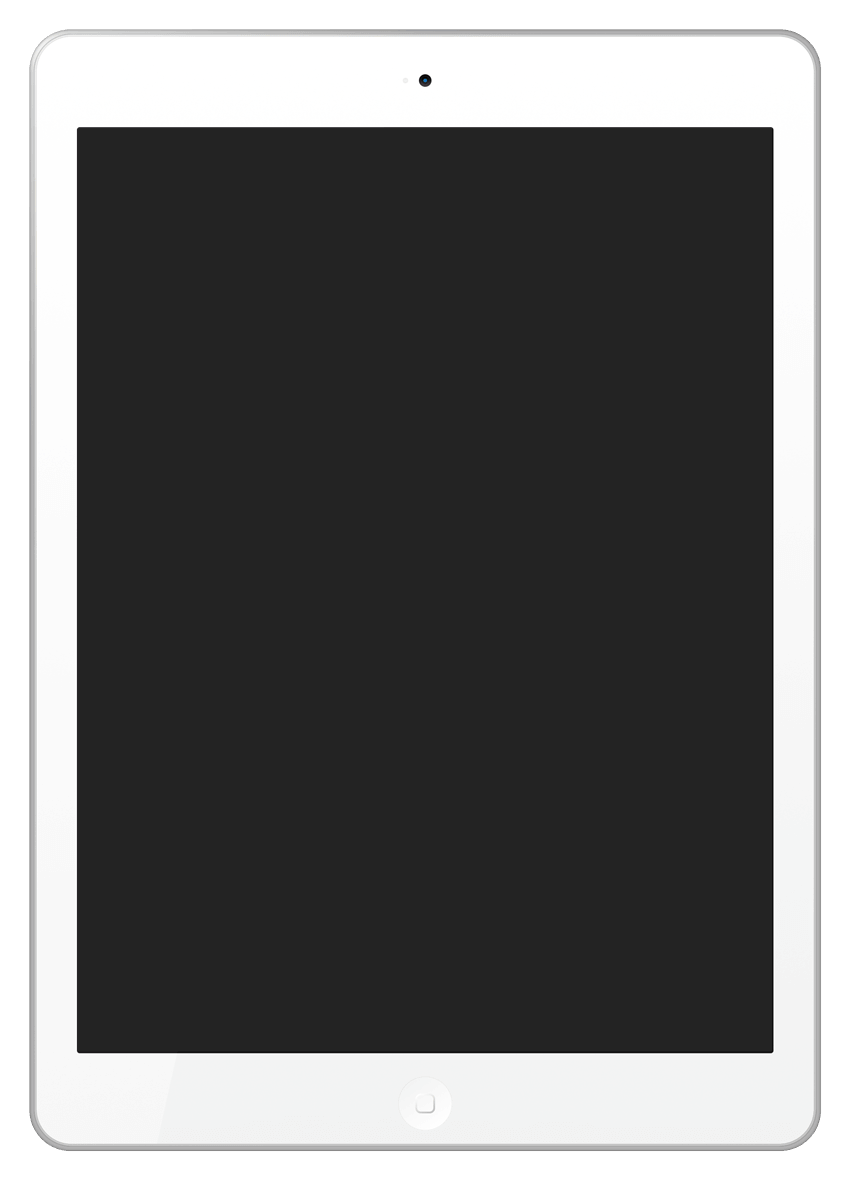
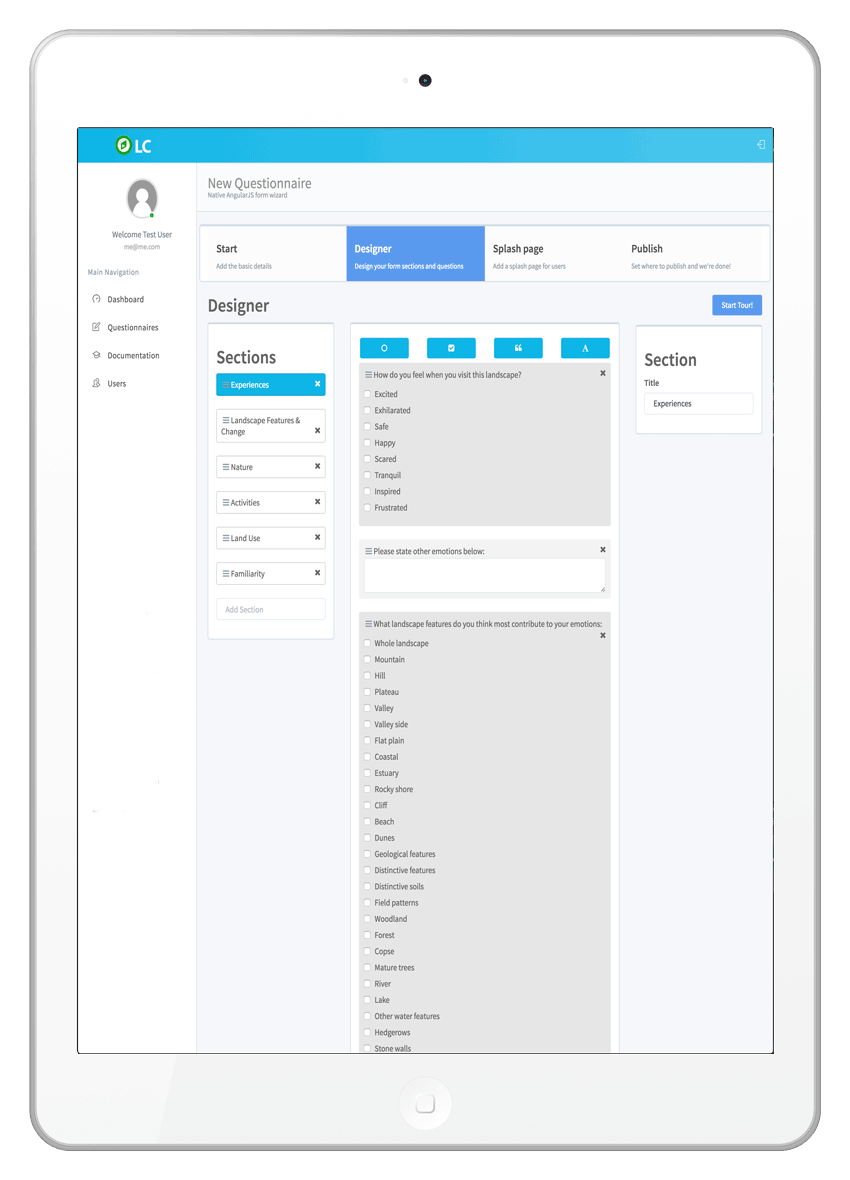
Update public advert page

diff --git a/public/index.html b/public/index.html
@@ -108,17 +108,12 @@
                      <h1 class="intro">Engage with your Landscape</h1>
                      <!--h5 Available on //a.buy-link(href="https://wrapbootstrap.com/theme/angle-bootstrap-admin-app-angularjs-WB04HF123") WrapBootstrap-->
                      <!-- DEMO BUTTON-->
-                     <div class="text-center"><a href="https://play.google.com/store/apps/details?id=com.accenture.android.rbs6nations&amp;hl=en_GB" class="btn btn-lg btn-theme"><i class="icon-app-download"></i><span><em class="fa fa-android"></em>Download for Android</span></a>
-                        <a
-                        href="#versions" class="btn btn-lg btn-theme"><i class="icon-app-download"></i>
-                           <span>
-                              <strong>Learn More</strong>
-                           </span>
-                           </a>
+                     <div class="text-center"><a href="https://play.google.com/store/apps/details?id=uk.co.threeequals.landscapeconnect" class="btn btn-lg btn-theme"><i class="icon-app-download"></i><span><em class="fa fa-android"></em>Download for Android</span></a><a href="#versions"
+                        class="btn btn-lg btn-theme"><i class="icon-app-download"></i><span> <strong>Learn More</strong></span></a>
                      </div>
                   </div>
                   <div class="intro-shot">
-                     <img src="img/header.shot.png" alt="Header shot" data-no-retina="" class="img-responsive">
+                     <img src="img/sections-phone.png" alt="Header shot" data-no-retina="" class="img-responsive header-shot">
                   </div>
                </div>
             </div>
@@ -143,7 +138,7 @@
                </div>
                <h4>Photo</h4>
                <p>
-                  <small>A picture speaks a thousand words, so we collect one with each questionnaire response.</small>
+                  <small>A picture speaks a thousand words, so we collect one with each questionnaire response</small>
                </p>
             </div>
             <div class="col-md-3 text-center">
@@ -152,7 +147,7 @@
                </div>
                <h4>Location</h4>
                <p>
-                  <small>Location gives context to a questionnaire responses and is grabbed automatically when taking a photo.</small>
+                  <small>Location gives context to a questionnaire response and is grabbed automatically when taking a photo</small>
                </p>
             </div>
             <div class="col-md-3 text-center">
@@ -161,7 +156,7 @@
                </div>
                <h4>Offline</h4>
                <p>
-                  <small>Just like a clipboard Landscape Connect doens't need Internet in the field to work. Pre-install a questionnaire to use it anywhere.</small>
+                  <small>Just like a clipboard Landscape Connect doesn't need Internet in the field to work. Download a questionnaire to use it anywhere</small>
                </p>
             </div>
             <div class="col-md-3 text-center">
@@ -170,7 +165,7 @@
                </div>
                <h4>Groups</h4>
                <p>
-                  <small>With two ways of installing a questionnaire and instant feedback at the end of a session it's perfect for using with field-studies groups.</small>
+                  <small>With two ways of installing a questionnaire and instant feedback at the end of a session it's perfect for using with field-studies groups</small>
                </p>
             </div>
          </div>
@@ -267,7 +262,7 @@
                   <!-- FEATURE TEXT-->
                   <div class="feature-details">
                      <h4 class="main-color">Fast data collection</h4>
-                     <p>completed forms are uploaded directly from the device, most likely before the user even gets back!</p>
+                     <p>completed forms are uploaded directly from the device, perhaps before the user even gets back</p>
                   </div>
                </div>
                <!-- FEATURE-->
@@ -323,7 +318,7 @@
                   <!-- FEATURE TEXT-->
                   <div class="feature-details">
                      <h4 class="main-color">Data analytics</h4>
-                     <p>Landscape connect comes with tailored data analytics to help show important features in the data.</p>
+                     <p>Landscape connect comes with tailored data analytics to help show important features in the data</p>
                   </div>
                </div>
                <!-- FEATURE-->
@@ -338,7 +333,7 @@
                   <!-- FEATURE TEXT-->
                   <div class="feature-details">
                      <h4 class="main-color">Publishing tools</h4>
-                     <p>Turn on open data sharing to instantly publish the data collected as an open data set.</p>
+                     <p>Turn on open data sharing to instantly publish the data collected as an open data set</p>
                   </div>
                </div>
             </div>
@@ -540,7 +535,7 @@
       <div class="container">
          <h2 data-wow-offset="15" data-wow-duration="1.2s" class="wow fadeInDown animated">Get the app now</h2>
          <div data-wow-offset="15" data-wow-duration="1.2s" class="wow fadeInUp animated">
-            <a href="http://play.google.com" class="btn btn-lg btn-theme">
+            <a href="https://play.google.com/store/apps/details?id=uk.co.threeequals.landscapeconnect" class="btn btn-lg btn-theme">
                <em class="fa fa-android"></em>Play Store</a>
             <a href="/app/#/page/register" class="btn btn-lg btn-theme">
                <em class="fa fa-plus-square-o"></em>Create questionnaire</a>

diff --git a/public/css/styles.css b/public/css/styles.css
@@ -6313,6 +6313,9 @@ header .full-screen {
   width: 100%;
   min-height: 100vh;
 }
+header .header-shot {
+  margin: auto;
+}
 /* ========================================================================
    Component: Versions
  ========================================================================== */

diff --git a/frontend/less/components/header.less b/frontend/less/components/header.less
@@ -95,6 +95,9 @@ header {
     min-height: 100vh;
   }
 
+  .header-shot{
+    margin: auto;
+  }
 }
 
 
